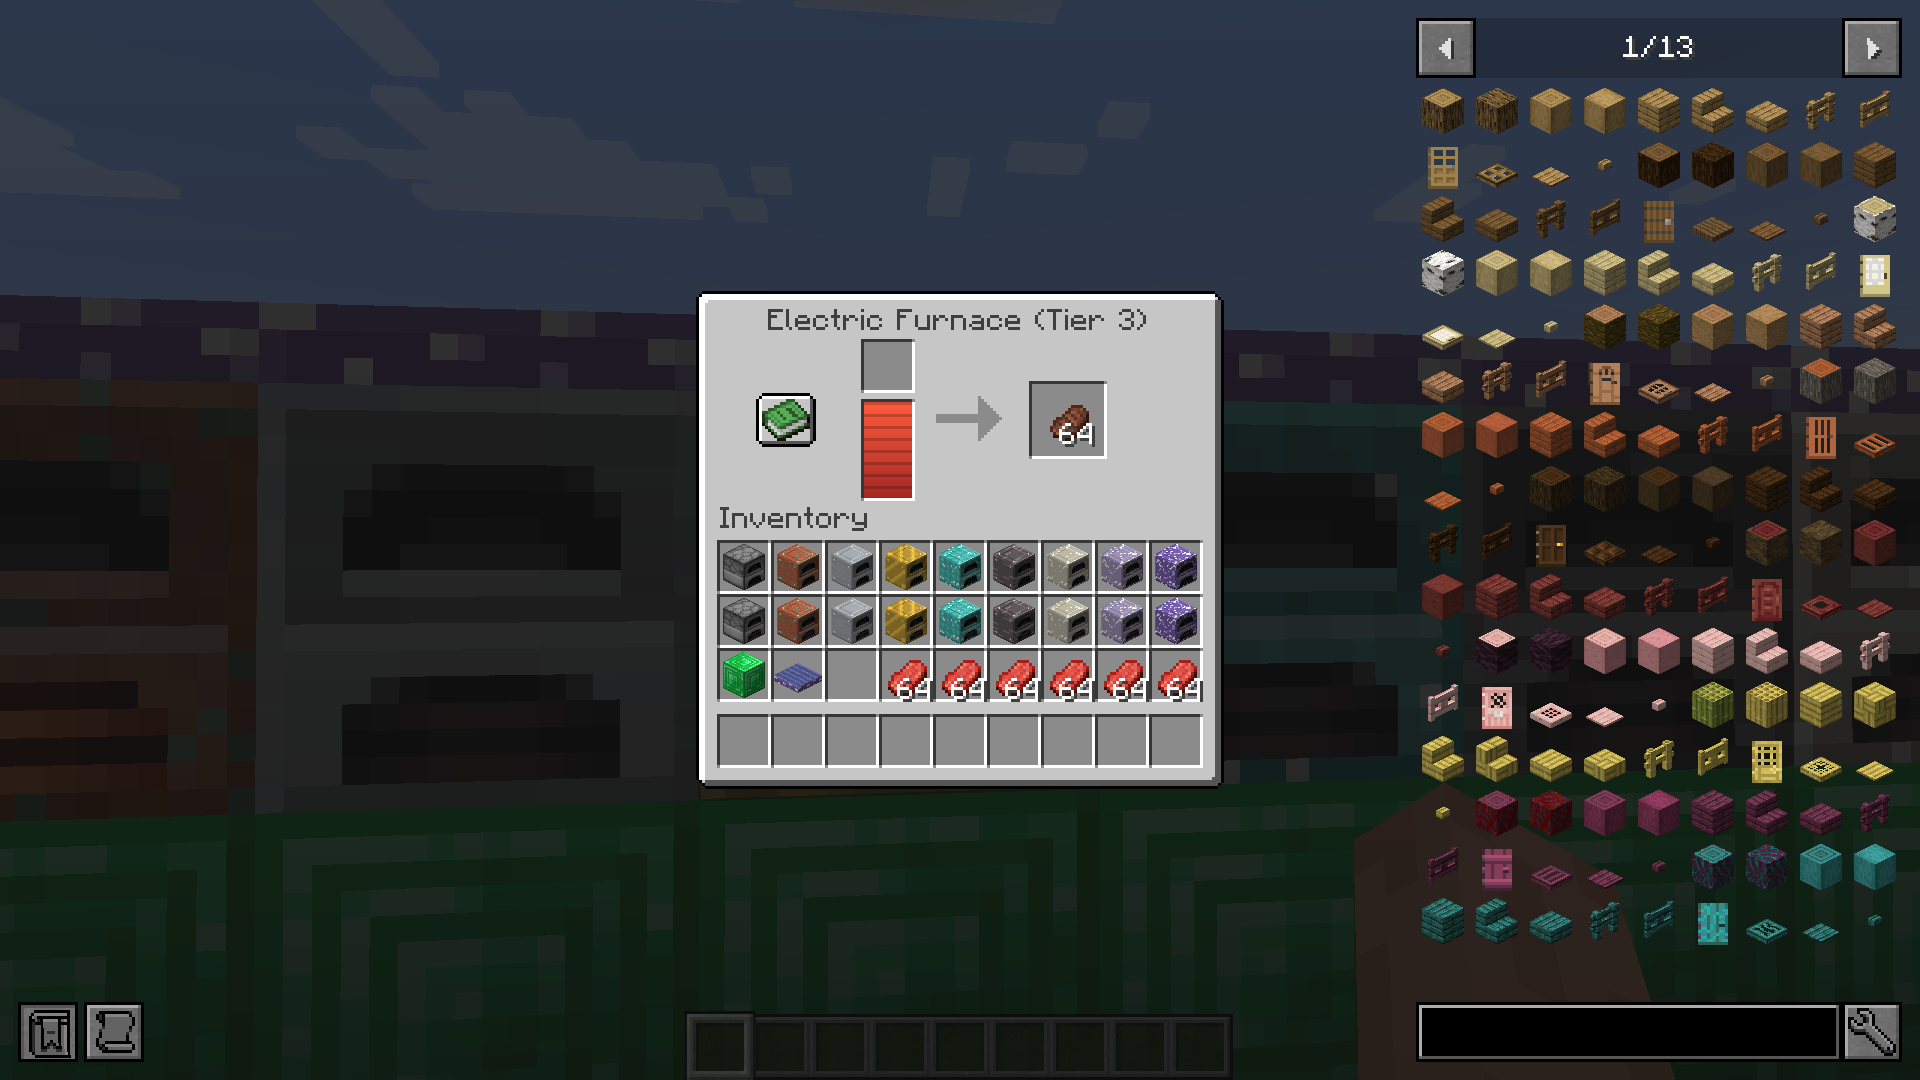
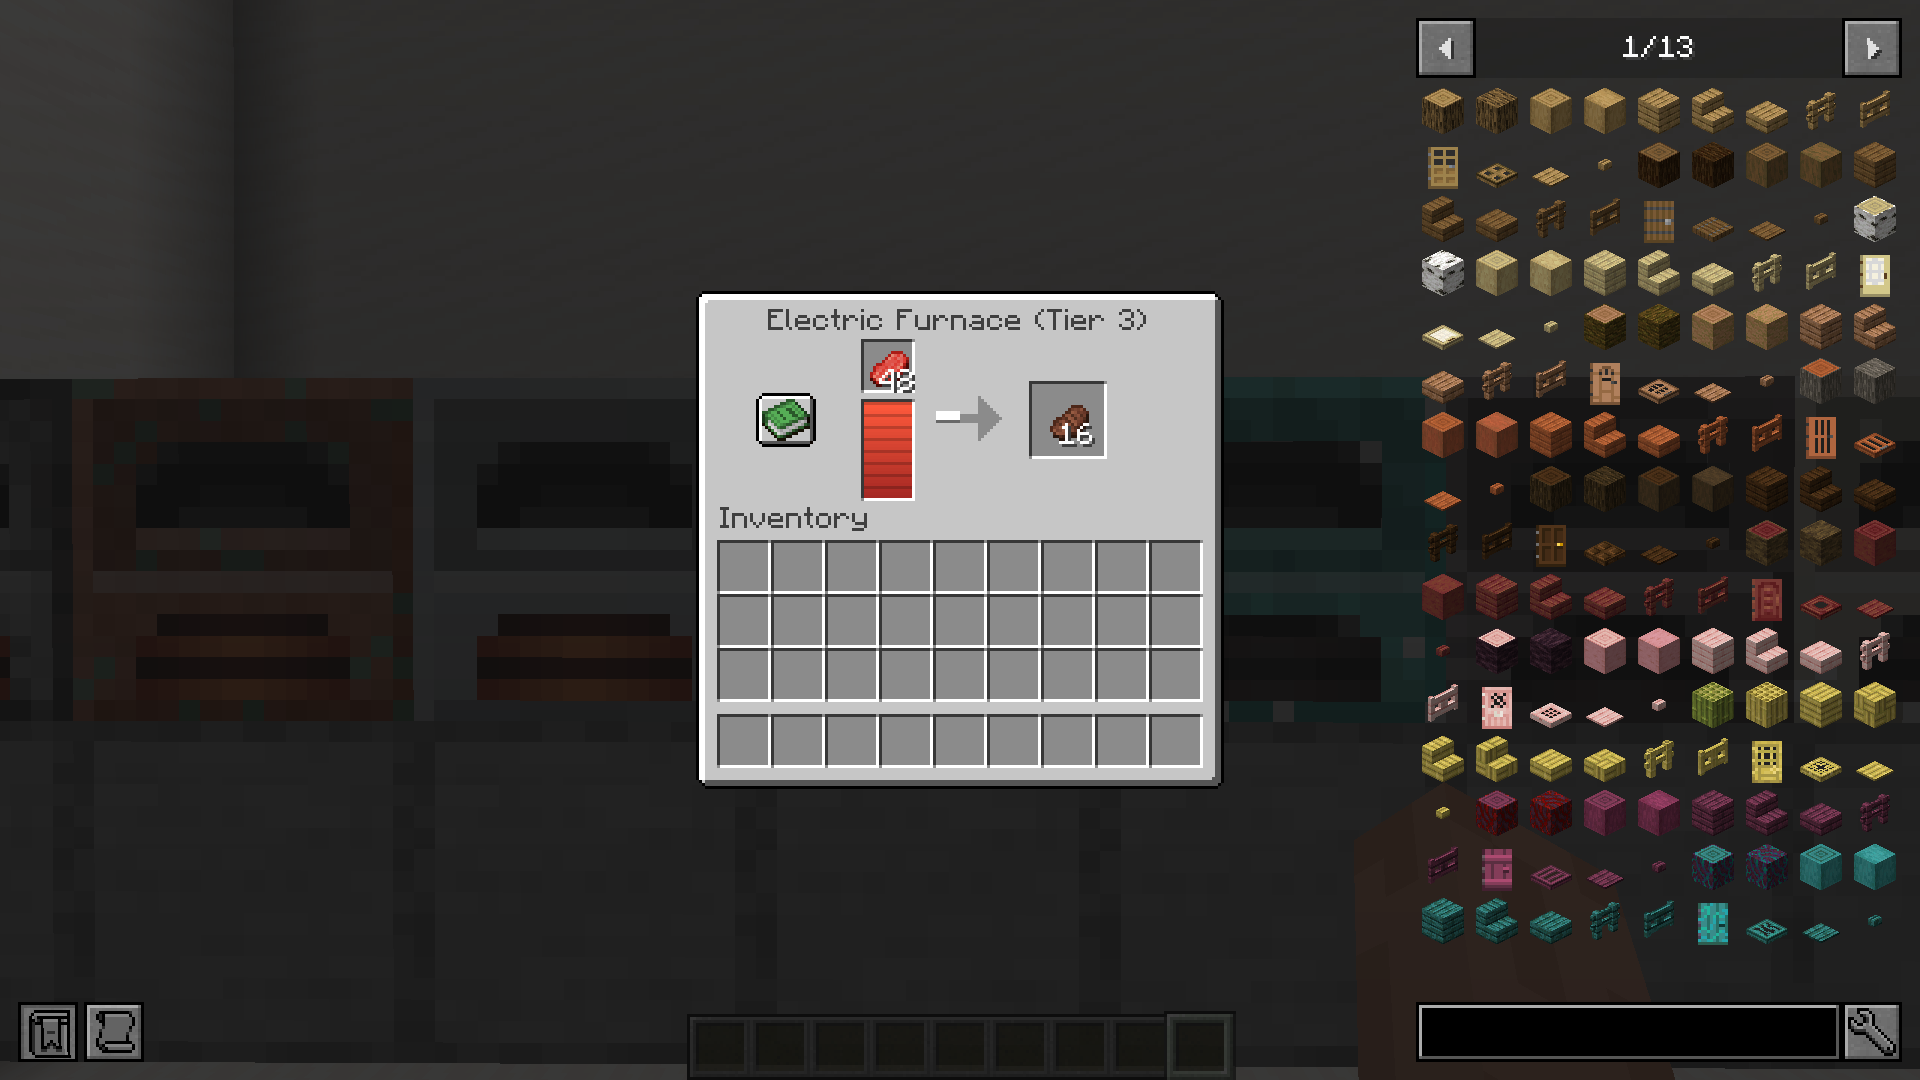
Replace the gallery with clean Caminus screenshots

diff --git a/branding/gallery/captions.md b/branding/gallery/captions.md
@@ -3,18 +3,18 @@
 Upload in this order; the first is the card image.
 
 ## 01-card.png
-**Furnaces, lit**
+**Every furnace, lit**
 
-A vanilla furnace and Tier 1 to 6. The vanilla one and Tier 1 to 4 are smelting.
+Electric Furnaces on top and fuel furnaces below, from the plain one or Tier 1 on the left to Tier 8 on the right.
 
-バニラのかまどと Tier 1〜6 を並べたものです。バニラと Tier 1〜4 が焼いています。
+上の段が電気かまど、下の段が燃料のかまどです。左から順にティアが上がり、右端が Tier 8 です。
 
-## 02-electric.png
-**Electric Furnaces**
+## 02-idle.png
+**At rest**
 
-The plain Electric Furnace and Tier 1 to 7. The lit ones glow inside.
+The same furnaces, not smelting.
 
-電気かまどと Tier 1〜7 です。動いているものは中が赤く光ります。
+同じかまどが止まっているところです。
 
 ## 03-screen.png
 **The screen**
